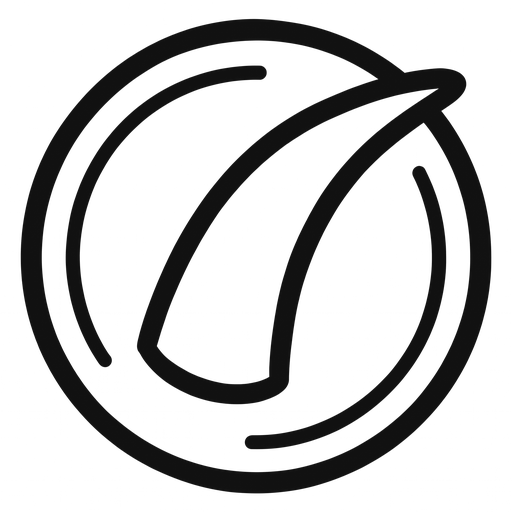
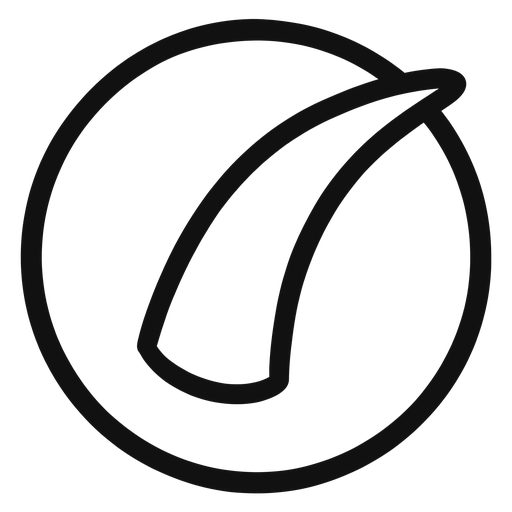
코인 그림에서 안쪽 반짝임 선 빼기 (1.13.3)

Changed region(s): [[0.4688, 0.3125, 0.875, 0.875], [0.125, 0.125, 0.5312, 0.7188]]

diff --git a/lib/config/app_config.dart b/lib/config/app_config.dart
@@ -1,5 +1,5 @@
 /// 앱 버전 (pubspec.yaml version과 같이 고친다). 설정 화면과 문의 메일 제목에 쓴다.
-const appVersion = '1.13.2';
+const appVersion = '1.13.3';
 
 /// 설정 > 문의하기 받는 주소. 비어 있으면 문의하기 줄을 숨긴다.
 /// 최근 앱에서 다시 열었을 때, 마지막으로 사진을 불러온 지 이만큼 지났으면 새로 불러온다
